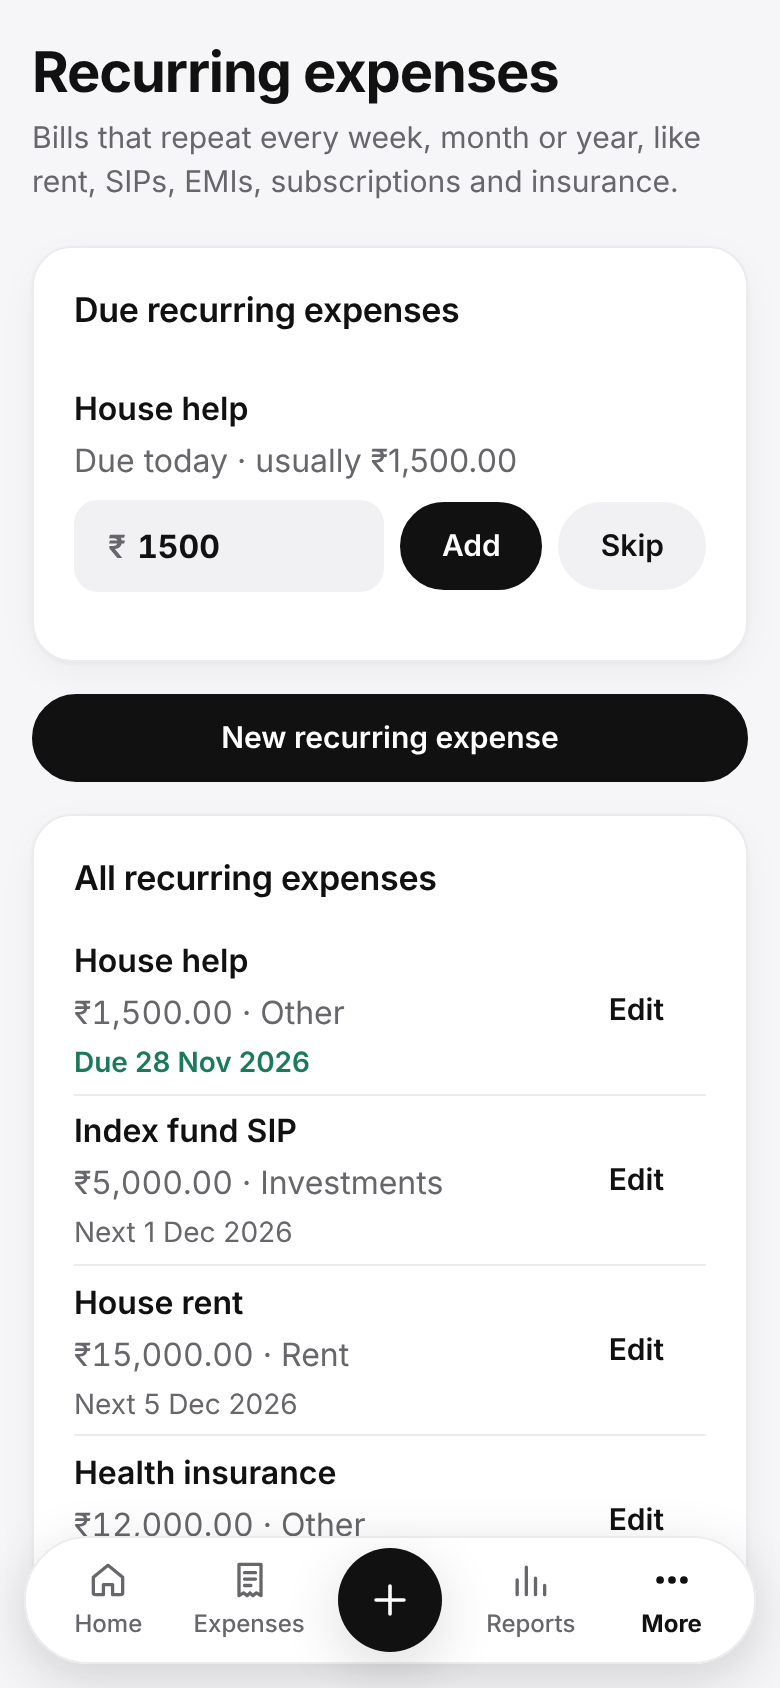
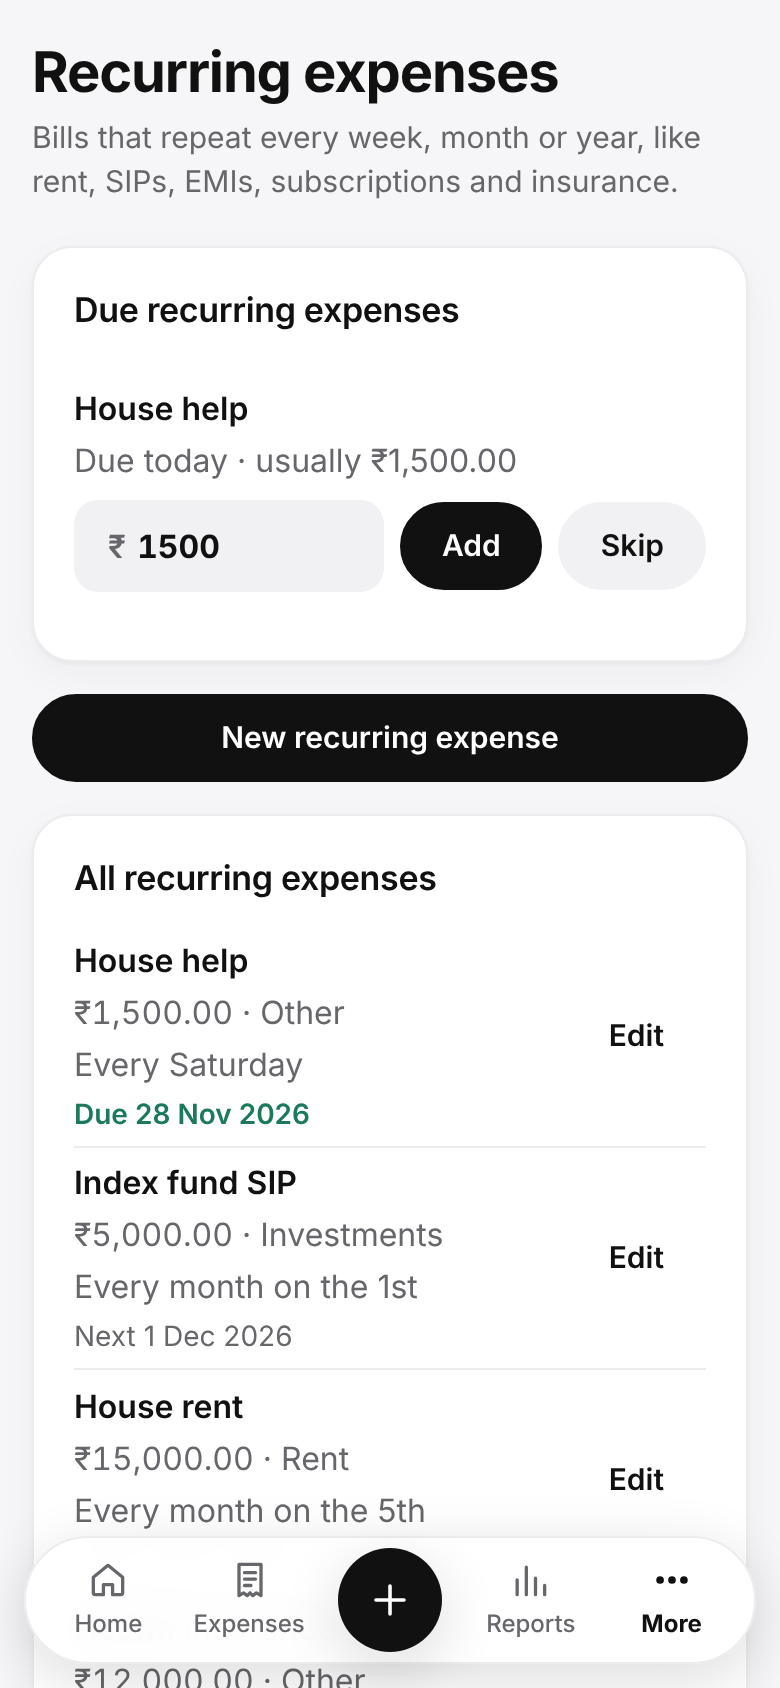
Recurring list shows how often each payment repeats

diff --git a/frontend/src/recurring.ts b/frontend/src/recurring.ts
@@ -39,16 +39,19 @@ export function daysInMonth(month: number): number {
   return [31, 29, 31, 30, 31, 30, 31, 31, 30, 31, 30, 31][month - 1]
 }
 
-/** "Every Saturday", "Every month on the 5th", "Every year on 15 March"; days some periods lack say where they fall. */
-export function scheduleLabel(s: RecurringSchedule): string {
+/**
+ * "Every Saturday", "Every month on the 5th", "Every year on 15 March". The full label also says
+ * where a day that some months or years lack falls; brief leaves that out, for one-line lists.
+ */
+export function scheduleLabel(s: RecurringSchedule, brief = false): string {
   if (s.frequency === 'WEEKLY') return `Every ${WEEKDAYS[(s.dayOfWeek ?? 1) - 1]}`
   const day = s.dayOfMonth ?? 1
   if (s.frequency === 'YEARLY') {
     const base = `Every year on ${day} ${MONTHS[(s.monthOfYear ?? 1) - 1]}`
-    return s.monthOfYear === 2 && day === 29 ? `${base} (28 February in other years)` : base
+    return s.monthOfYear === 2 && day === 29 && !brief ? `${base} (28 February in other years)` : base
   }
   const base = `Every month on the ${ordinal(day)}`
-  return day >= 29 ? `${base} (or the last day of shorter months)` : base
+  return day >= 29 && !brief ? `${base} (or the last day of shorter months)` : base
 }
 
 /** "week", "month" or "year": for sentences like "Skip it this month". */

diff --git a/frontend/e2e/recurring.spec.ts b/frontend/e2e/recurring.spec.ts
@@ -139,10 +139,10 @@ test('recurring: weekly and yearly ones start on today by default and come due o
   await due.getByRole('button', { name: 'Skip Maid this week' }).click()
   await expect(due).not.toContainText('Maid')
 
+  // Each row says how often it repeats, without opening it.
   const insurance = page.getByRole('listitem').filter({ hasText: 'Health insurance' }).last()
-  await insurance.getByRole('button', { name: 'Edit Health insurance' }).click()
   await expect(insurance).toContainText(`Every year on ${ist.getUTCDate()} ${month}`)
   const maid = page.getByRole('listitem').filter({ hasText: 'Maid' }).last()
-  await maid.getByRole('button', { name: 'Edit Maid' }).click()
   await expect(maid).toContainText(`Every ${weekday}`)
+  await expect(maid.getByRole('button', { name: 'Edit Maid' })).toHaveAttribute('aria-expanded', 'false')
 })

diff --git a/frontend/src/recurring.test.ts b/frontend/src/recurring.test.ts
@@ -51,6 +51,16 @@ describe('scheduleLabel', () => {
     )
   })
 
+  it('has a brief form for lists, without the note about short months', () => {
+    expect(scheduleLabel(monthly(31), true)).toBe('Every month on the 31st')
+    expect(scheduleLabel({ frequency: 'YEARLY', dayOfMonth: 29, dayOfWeek: null, monthOfYear: 2 }, true)).toBe(
+      'Every year on 29 February',
+    )
+    expect(scheduleLabel({ frequency: 'WEEKLY', dayOfMonth: null, dayOfWeek: 1, monthOfYear: null }, true)).toBe(
+      'Every Monday',
+    )
+  })
+
   it('knows the longest month lengths and the period words', () => {
     expect([2, 4, 12].map(daysInMonth)).toEqual([29, 30, 31])
     expect(periodWord('WEEKLY')).toBe('week')

diff --git a/frontend/src/pages/Recurring.tsx b/frontend/src/pages/Recurring.tsx
@@ -234,6 +234,7 @@ function RecurringRow({ item, categories, categoryName, onChanged, onDeleted }: 
             <span className="num">{formatPaise(item.amountPaise)}</span> · {categoryName}
             {categoryArchived ? ' (archived)' : ''}
           </span>
+          <span className="muted">{scheduleLabel(item, true)}</span>
           <span className={item.due ? 'status due' : 'status muted'}>{status}</span>
         </div>
         <button

diff --git a/CLAUDE.md b/CLAUDE.md
@@ -168,7 +168,7 @@
   - Charts are hand-drawn SVG sized with useWidth (ResizeObserver): CycleSpendChart (running total vs an even pace, daily strip, keyboard tooltips), ColumnChart (stacked columns, negative values, plan rule, one button per column) used by HistoryChart and Reports; each has Show as table (ChartTable).
   - Reports (/reports?view=weekly|monthly|yearly|savings): weekly against a plan prorated per day; monthly (19 Nov 2026, owner chose pay cycle, not calendar month) = one column per pay cycle, last 12, named after the month its middle day falls in (reports.cycleMonth), needs + wants against the needs + wants plan, saved only for finished cycles with expenses, from GET /api/reports/cycles (no backend change); yearly by the calendar year a cycle starts in; savings over finished cycles that have expenses. Yearly and monthly "saved" follow the savings rule (finished cycles with at least one expense; reports.countsAsSaved) since 19 Nov 2026; before that yearly counted the current cycle and empty cycles as fully saved. Grouping is done in reports.ts (unit-tested). Insights and categories (21 Nov 2026, branch feature/report-insights): a "Categories" tab (/reports?view=categories, from /api/reports/categories, last 6 cycles) = stacked columns of the top 4 needs/wants categories per cycle (no green: it means saved) + "N more" in slate, table with this cycle so far, last finished cycle, the one before, change % and average of finished cycles; Other logged as both types shows as "Other (needs)" / "Other (wants)"; investments left out. A "Highlights" card (role region) of up to 3 sentences: reports.cycleInsights on Monthly and Savings (last finished cycle's savings rate vs best/average of the last 6 counted cycles, deficit, needs/wants over plan in 2+ of the last 4, or all within plan) and reports.categoryInsights on Categories (biggest spend last cycle with its share, biggest rise and fall vs the cycle before, only changes of 20%+ from a base of 500 rupees or more). Savings rate (reports.savingsRate, saved / income, whole %) in Monthly and Savings tiles, tooltips and tables. The report switch scrolls sideways under 640px with a fading right edge and keeps the chosen tab in view.
   - Year in review (27 Nov 2026, final touches step 4): Reports > Trends > Years shows, under the yearly chart, an article "Year in review" with a year select (years that have cycles, newest first; defaults to last year until this year has a finished cycle with expenses). reports.yearReview(items from /api/reports/cycles, rows from /api/reports/year, year, today): cycles starting in the year, income, needs, wants, invested, saved and savings rate by the savings rule (finished cycles with expenses; rate against those cycles' income), cycles over plan per bucket, best/toughest cycle by savings rate (2+ counted cycles), biggest spending cycle, needs/wants categories summed over the year (Other split by type, investments out). yearReviewLines gives up to 4 sentences. The card shows four flat tiles (2 per row on phones), the sentences, and the top 5 categories as CategoryBars (new optional totalPaise prop so shares are of all needs and wants) linking to /expenses for the year's cycles. The body remounts per year (key), so a slow answer for another year never shows. Tests: reports.test.ts yearReview (2), e2e reports.spec.ts "year in review".
-  - Recurring (/recurring): form (RecurringForm: "Repeats" Weekly / Monthly / Yearly segmented radios; weekly a weekday select "Due every week on", monthly the day select, yearly a fieldset "Due every year on" with Day and Month selects (days limited to the month, February up to 29); new weekly/yearly default to today's weekday/date in IST; recurring.ts scheduleLabel("Every Saturday", "Every month on the 5th", "Every year on 15 March"), periodWord for "Skip X this week/month/year"), due list with an editable amount (DueRecurring: Add / Skip), all rules with Edit, Pause/Resume and two-step Delete; "How it works" until the first one is saved.
+  - Recurring (/recurring): form (RecurringForm: "Repeats" Weekly / Monthly / Yearly segmented radios; weekly a weekday select "Due every week on", monthly the day select, yearly a fieldset "Due every year on" with Day and Month selects (days limited to the month, February up to 29); new weekly/yearly default to today's weekday/date in IST; recurring.ts scheduleLabel("Every Saturday", "Every month on the 5th", "Every year on 15 March"), periodWord for "Skip X this week/month/year"; each row of the list shows scheduleLabel(item, brief=true) under the amount since 28 Nov 2026, the full label with the short-month note stays in the Edit panel), due list with an editable amount (DueRecurring: Add / Skip), all rules with Edit, Pause/Resume and two-step Delete; "How it works" until the first one is saved.
   - Categories (/categories): groups by type with icons; Edit expands rename, type, archive/restore and two-step delete (a 409 keeps the confirm open with an "archive instead" hint).
   - Settings: Profile (name + "Show my name in the greeting" switch), salary for the current cycle onward, pay-day change with the pending notice, Appearance, Delete account.
   - PWA: manifest, icons and a hand-written public/sw.js that never touches /api (cache-first for /assets, network-first pages with the cached shell offline), registered only in production as /sw.js?v=__BUILD_ID__ so each deploy replaces the cache; InstallCard on /more.
